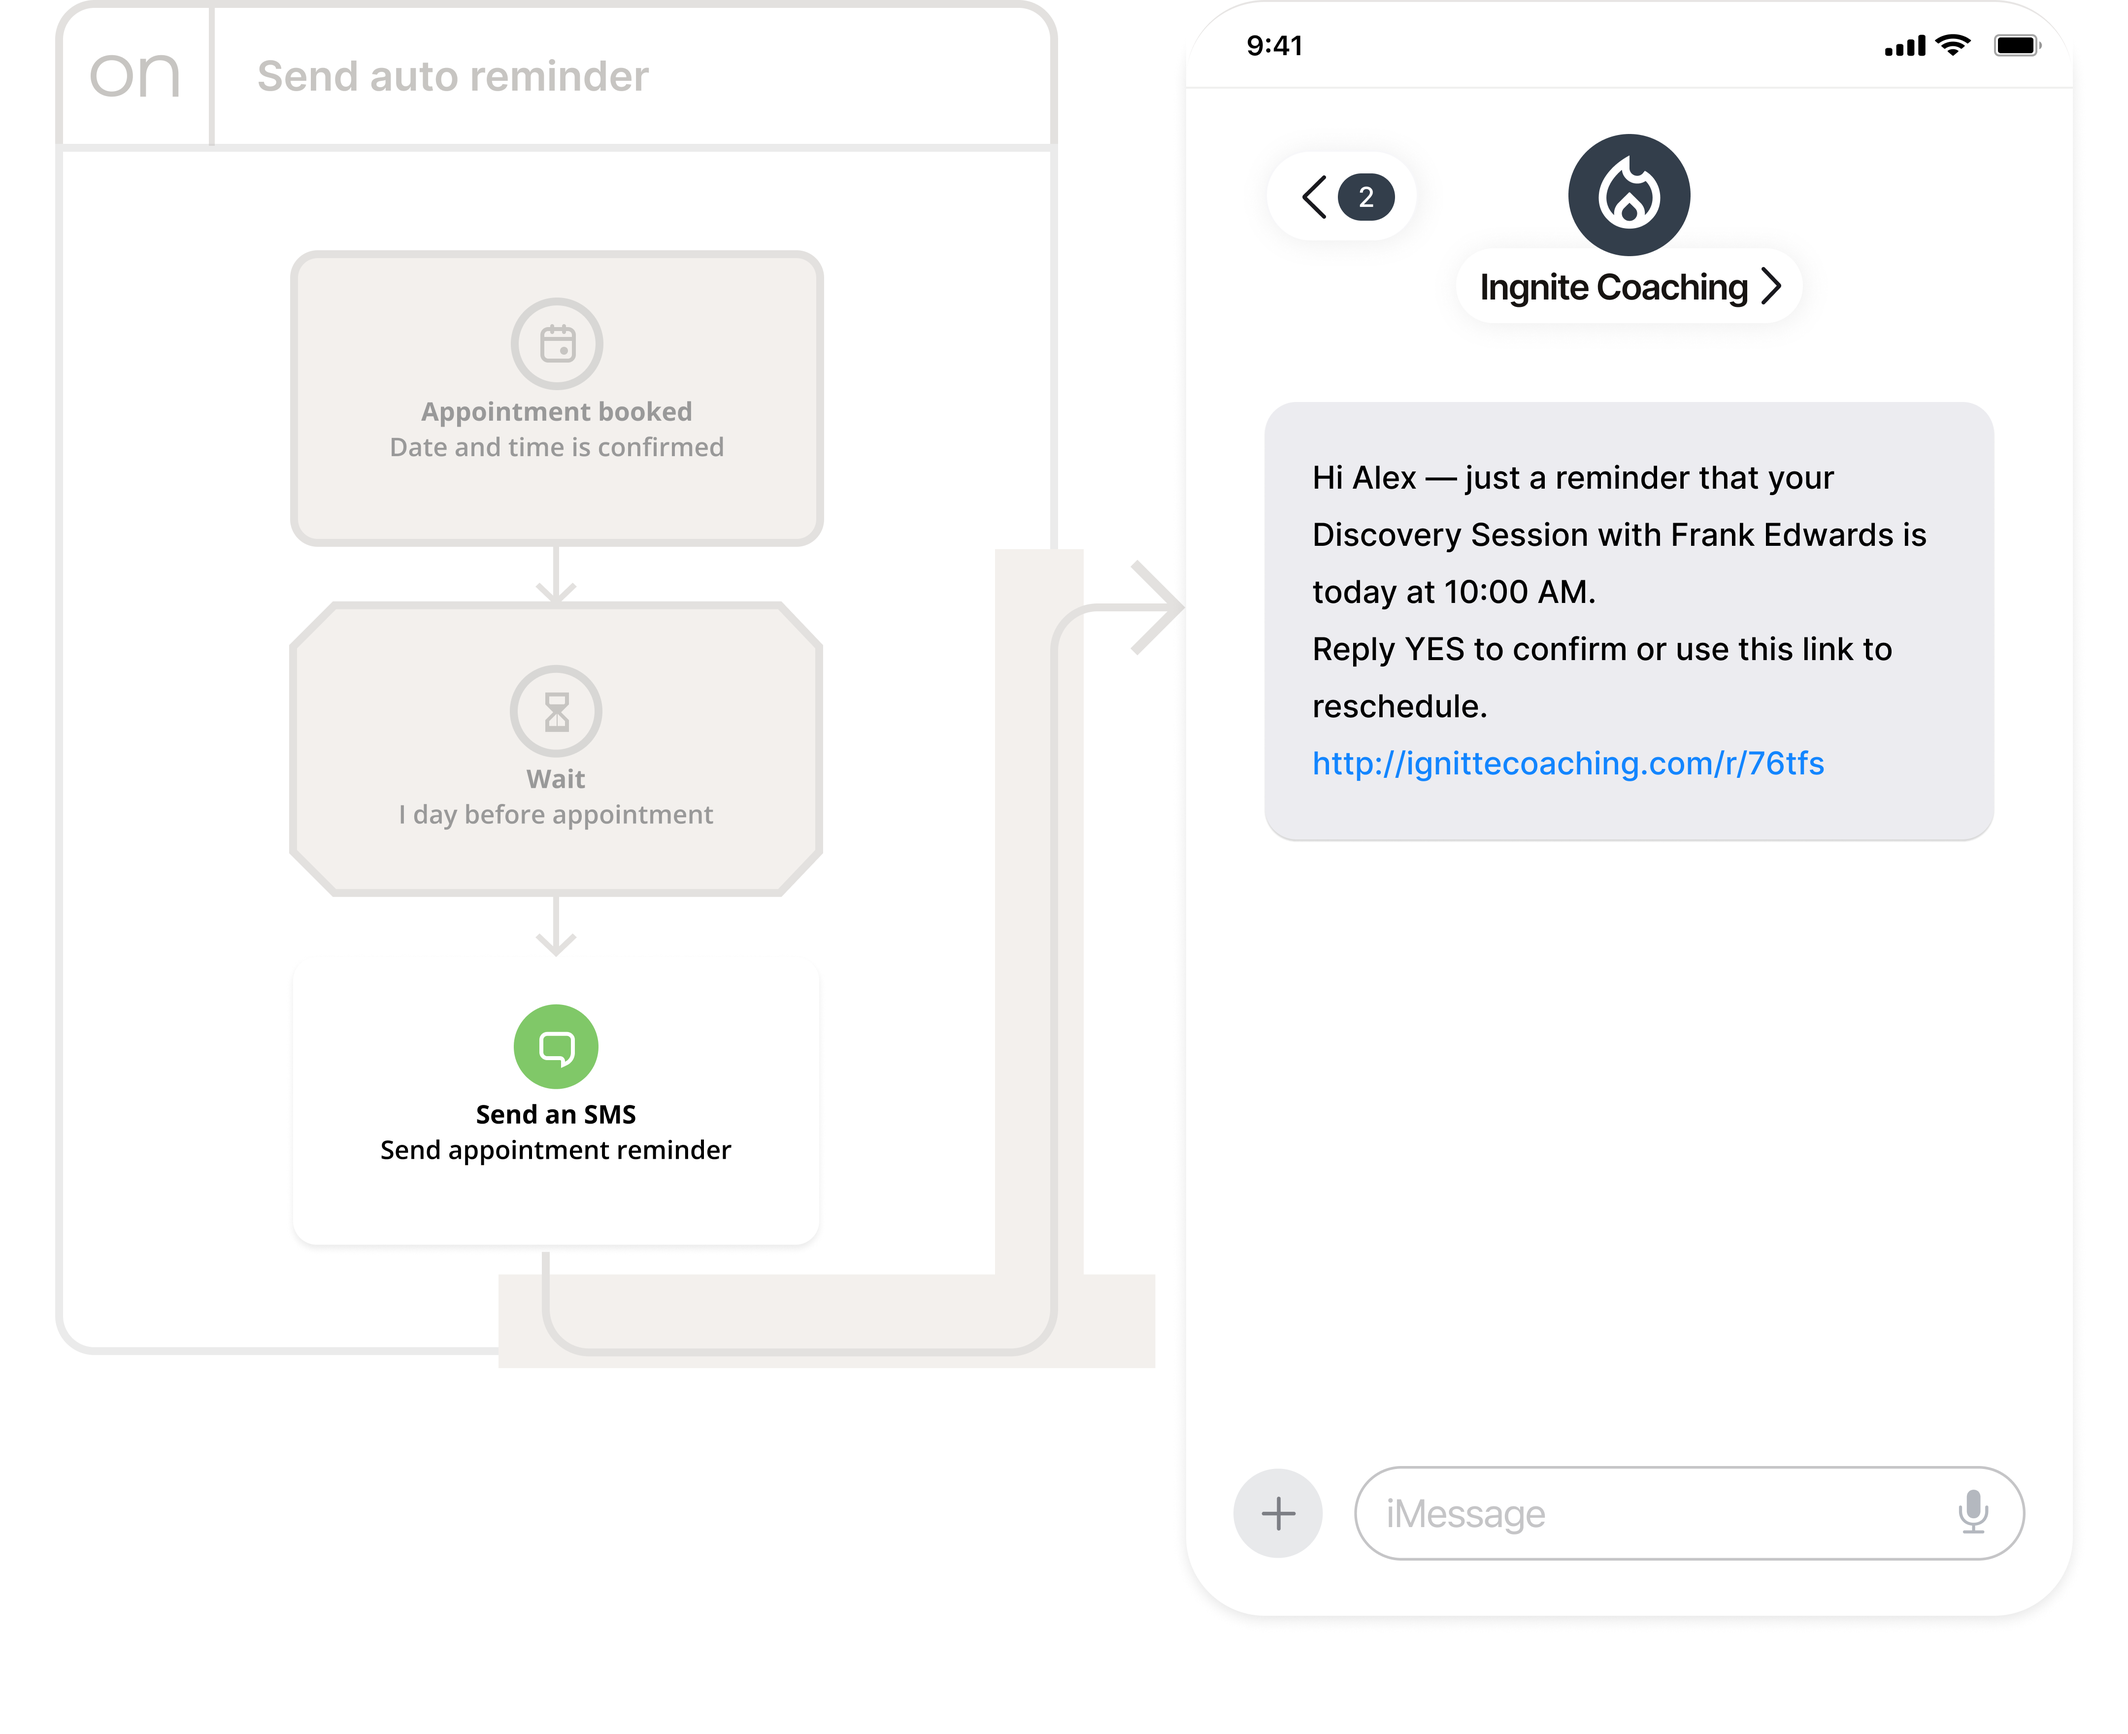
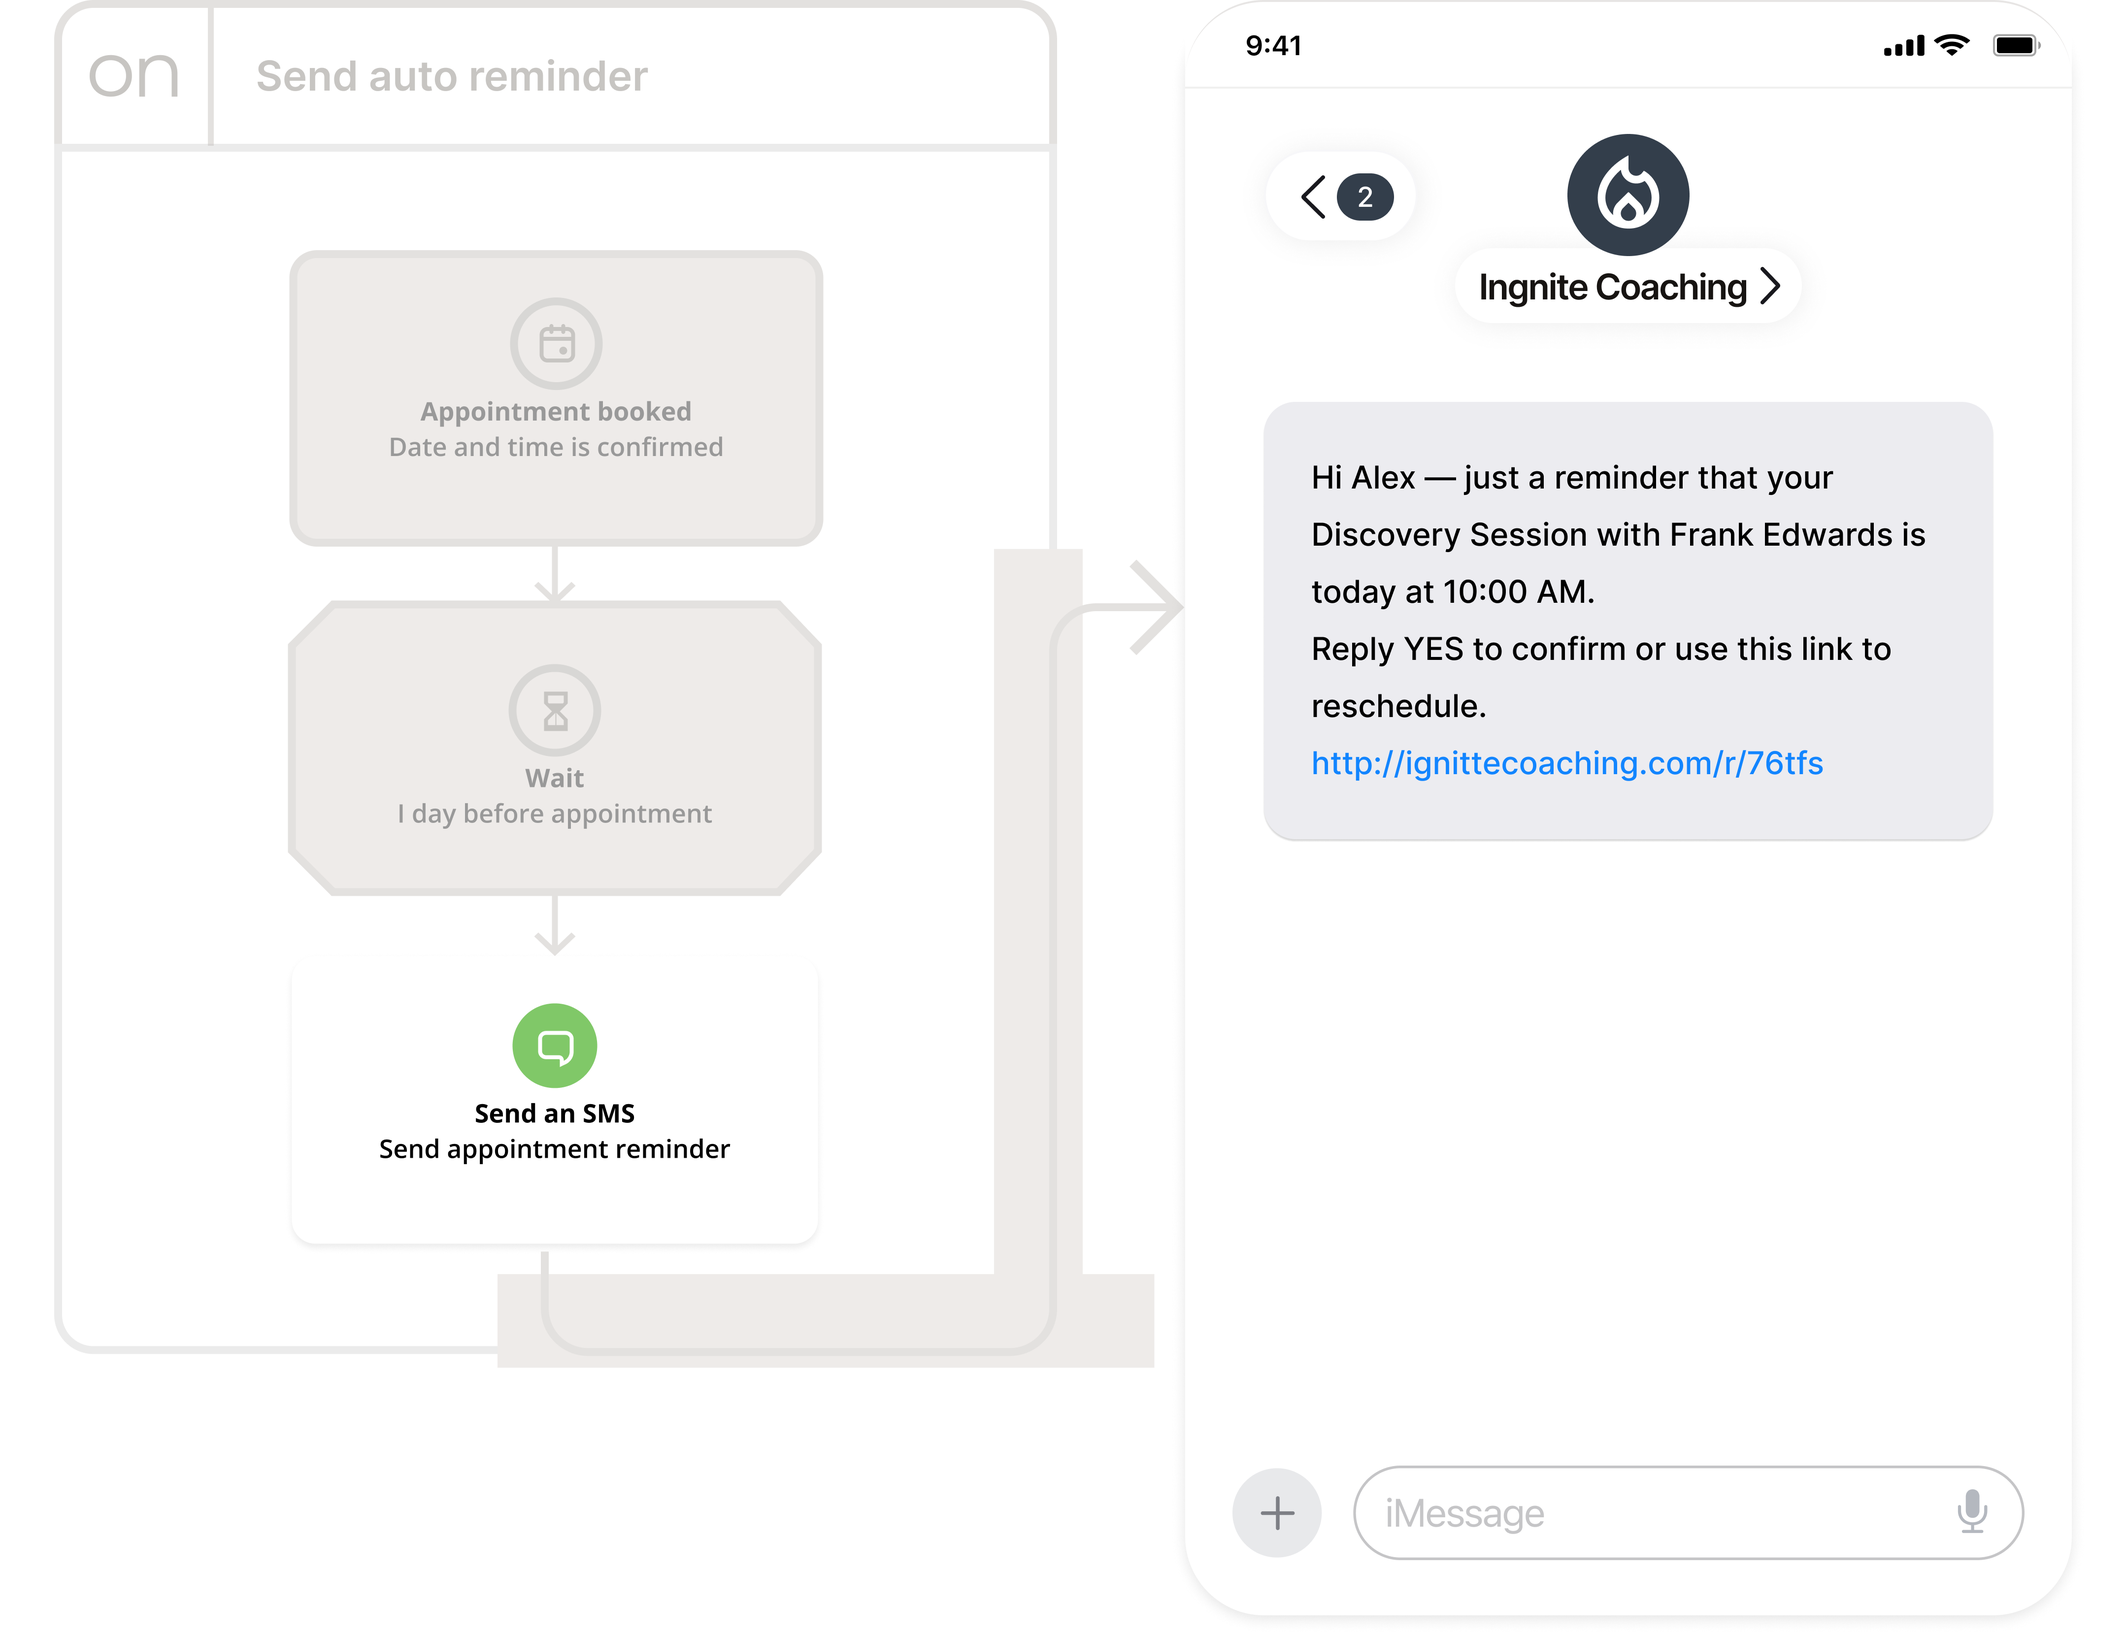
Update portfolio project images and styling

diff --git a/src/app/pages/TeamYouDraftPage.tsx b/src/app/pages/TeamYouDraftPage.tsx
@@ -143,7 +143,7 @@ export function TeamYouDraftPage() {
         </div>
 
         {/* Introduction callout + spec image */}
-        <div style={{ backgroundColor: 'rgba(241,238,236,0.8)', textAlign: 'center', borderRadius: '32px 32px 32px 32px', width: '100%', overflow: 'hidden' }}>
+        <div style={{ backgroundColor: '#EEEBE9', textAlign: 'center', borderRadius: '32px 32px 32px 32px', width: '100%', overflow: 'hidden' }}>
           <div className="ty-feature-copy" style={{ display: 'flex', flexDirection: 'column',  alignItems: 'center', gap: '8px' }}>
             <p style={{ flex: '1 0 0', minWidth: 0, maxWidth: 800, textAlign: 'center', fontFamily: "'Poppins', sans-serif", fontWeight: 400, fontSize: 29, lineHeight: 'normal', color: '#0f1629', margin: 0 }}>
               Key decisions preserved alongside the final design
@@ -153,12 +153,12 @@ export function TeamYouDraftPage() {
             </p>
           </div>
           <div className="ty-feature-media">
-            <img src={specContentImg} alt="TeamYou spec content" style={{ width: '100%', display: 'block', borderRadius: '22px 22px 22px 22px', boxShadow: '0px 2px 4px 0px rgba(0, 0, 0, 0.08)' }} />
+            <img src={specContentImg} alt="TeamYou spec content" style={{ width: '100%', display: 'block', borderRadius: '22px 22px 22px 22px', boxShadow: '0px 2px 10px 2px rgba(0, 0, 0, 0.08)' }} />
           </div>
         </div>
 
         {/* Confidence before handoff + editor image */}
-        <div style={{ backgroundColor: 'rgba(241,238,236,0.8)', textAlign: 'center', borderRadius: '32px 32px 32px 32px', width: '100%', overflow: 'hidden' }}>
+        <div style={{ backgroundColor: '#EEEBE9', textAlign: 'center', borderRadius: '32px 32px 32px 32px', width: '100%', overflow: 'hidden' }}>
           <div className="ty-feature-copy" style={{ display: 'flex', flexDirection: 'column',  alignItems: 'center',  gap: '8px' }}>
             <p style={{ flex: '1 0 0', minWidth: 0, maxWidth: 800, textAlign: 'center', width: '100%', fontFamily: "'Poppins', sans-serif", fontWeight: 400, fontSize: 29, lineHeight: 'normal', color: '#0f1629', margin: 0 }}>
               Confidence before handoff
@@ -168,12 +168,12 @@ export function TeamYouDraftPage() {
             </p>
           </div>
           <div className="ty-feature-media">
-            <img src={editorImg} alt="TeamYou editor review" style={{ width: '100%', display: 'block', borderRadius: '22px 22px 22px 22px', boxShadow: '0px 2px 4px 0px rgba(0, 0, 0, 0.08)' }} />
+            <img src={editorImg} alt="TeamYou editor review" style={{ width: '100%', display: 'block', borderRadius: '22px 22px 22px 22px', boxShadow: '0px 2px 10px 2px rgba(0, 0, 0, 0.08)' }} />
           </div>
         </div>
 
         {/* Turn raw data into the right report */}
-        <div style={{ backgroundColor: 'rgba(241,238,236,0.8)', textAlign: 'center', borderRadius: '32px 32px 32px 32px', width: '100%', overflow: 'hidden' }}>
+        <div style={{ backgroundColor: '#EEEBE9', textAlign: 'center', borderRadius: '32px 32px 32px 32px', width: '100%', overflow: 'hidden' }}>
           <div className="ty-feature-copy" style={{ display: 'flex', flexDirection: 'column',  alignItems: 'center', gap: '8px' }}>
             <p style={{ flex: '1 0 0', minWidth: 0, maxWidth: 800, textAlign: 'center', width: '100%', fontFamily: "'Poppins', sans-serif", fontWeight: 400, fontSize: 29, lineHeight: 'normal', color: '#0f1629', margin: 0 }}>
               Turn raw data into the right report
@@ -187,12 +187,12 @@ export function TeamYouDraftPage() {
             </div>
           </div>
            <div className="ty-feature-media">
-            <img src={reportImg} alt="TeamYou report" style={{ width: '100%', display: 'block', borderRadius: '22px 22px 22px 22px', boxShadow: '0px 2px 4px 0px rgba(0, 0, 0, 0.08)' }} />
+            <img src={reportImg} alt="TeamYou report" style={{ width: '100%', display: 'block', borderRadius: '22px 22px 22px 22px', boxShadow: '0px 2px 10px 2px rgba(0, 0, 0, 0.08)'  }} />
           </div>
         </div>
 
         {/* Patterns section — centered layout */}
-        <div style={{ backgroundColor: 'rgba(241,238,236,0.8)', textAlign: 'center', borderRadius: '32px 32px 32px 32px', width: '100%', overflow: 'hidden' }}>
+        <div style={{ backgroundColor: '#EEEBE9', textAlign: 'center', borderRadius: '32px 32px 32px 32px', width: '100%', overflow: 'hidden' }}>
           <div className="ty-feature-copy" style={{ display: 'flex', flexDirection: 'column', alignItems: 'center', gap: 16 }}>
             <p style={{ textAlign: 'center', maxWidth: 800, fontFamily: "'Poppins', sans-serif", fontWeight: 400, fontSize: 29, lineHeight: 'normal', color: '#0f1629', margin: 0 }}>
               Find Relevant Patterns
@@ -202,7 +202,7 @@ export function TeamYouDraftPage() {
             </p>
           </div>
           <div className="ty-feature-media">
-            <img src={patternsImg} alt="TeamYou patterns" style={{ width: '100%', display: 'block', borderRadius: '22px 22px 22px 22px', boxShadow: '0px 2px 4px 0px rgba(0, 0, 0, 0.08)' }} />
+            <img src={patternsImg} alt="TeamYou patterns" style={{ width: '100%', display: 'block', borderRadius: '22px 22px 22px 22px', boxShadow: '0px 2px 10px 2px rgba(0, 0, 0, 0.08)'  }} />
           </div>
         </div>
 
@@ -222,7 +222,7 @@ export function TeamYouDraftPage() {
 
           
           <div className="ty-feature-media">
-            <img src={patterns1Img} alt="TeamYou today view" style={{ width: '100%', display: 'block', borderRadius: '22px 22px 22px 22px', boxShadow: '0px 2px 4px 0px rgba(0, 0, 0, 0.08)' }} />
+            <img src={patterns1Img} alt="TeamYou today view" style={{ width: '100%', display: 'block', borderRadius: '22px 22px 22px 22px', boxShadow: '0px 2px 10px 2px rgba(0, 0, 0, 0.08)'  }} />
           </div>
         </div>
 

diff --git a/src/app/pages/OntraportInboxPage.tsx b/src/app/pages/OntraportInboxPage.tsx
@@ -92,7 +92,7 @@ export function OntraportInboxPage() {
           </div>
         </section>
 
-        <section className="overflow-hidden rounded-[28px] bg-[#F3F0EF]">
+        <section className="overflow-hidden rounded-[28px] bg-[#EEEBE9]">
           <div className="flex min-h-[254px] flex-col items-center justify-center p-6 text-center sm:p-[60px]">
             <h2 className="mb-4 mt-0 text-[32px] font-medium leading-[1.3]">A shared view of every conversation</h2>
             <p className="m-0 max-w-[800px] text-[20px] font-normal leading-[1.5]">
@@ -109,7 +109,7 @@ export function OntraportInboxPage() {
         </section>
 
 
-         <section className="overflow-hidden rounded-[28px] bg-[#F3F0EF]">
+         <section className="overflow-hidden rounded-[28px] bg-[#EEEBE9]">
           <div className="flex min-h-[254px] flex-col items-center justify-center p-6 text-center sm:p-[60px]">
             <h2 className="mb-4 mt-0 text-[32px] font-medium leading-[1.3]">Bring the conversation to your website</h2>
             <p className="m-0 max-w-[800px] text-[20px] font-normal leading-[1.5]">
@@ -126,7 +126,7 @@ export function OntraportInboxPage() {
         </section>
 
 
-                <section className="overflow-hidden rounded-[28px] bg-[#F3F0EF]">
+                <section className="overflow-hidden rounded-[28px] bg-[#EEEBE9]">
           <div className="flex min-h-[254px] flex-col items-center justify-center p-6 text-center sm:p-[60px]">
             <h2 className="mb-4 mt-0 text-[32px] font-medium leading-[1.3]">Answers after hours</h2>
             <p className="m-0 max-w-[800px] text-[20px] font-normal leading-[1.5]">
